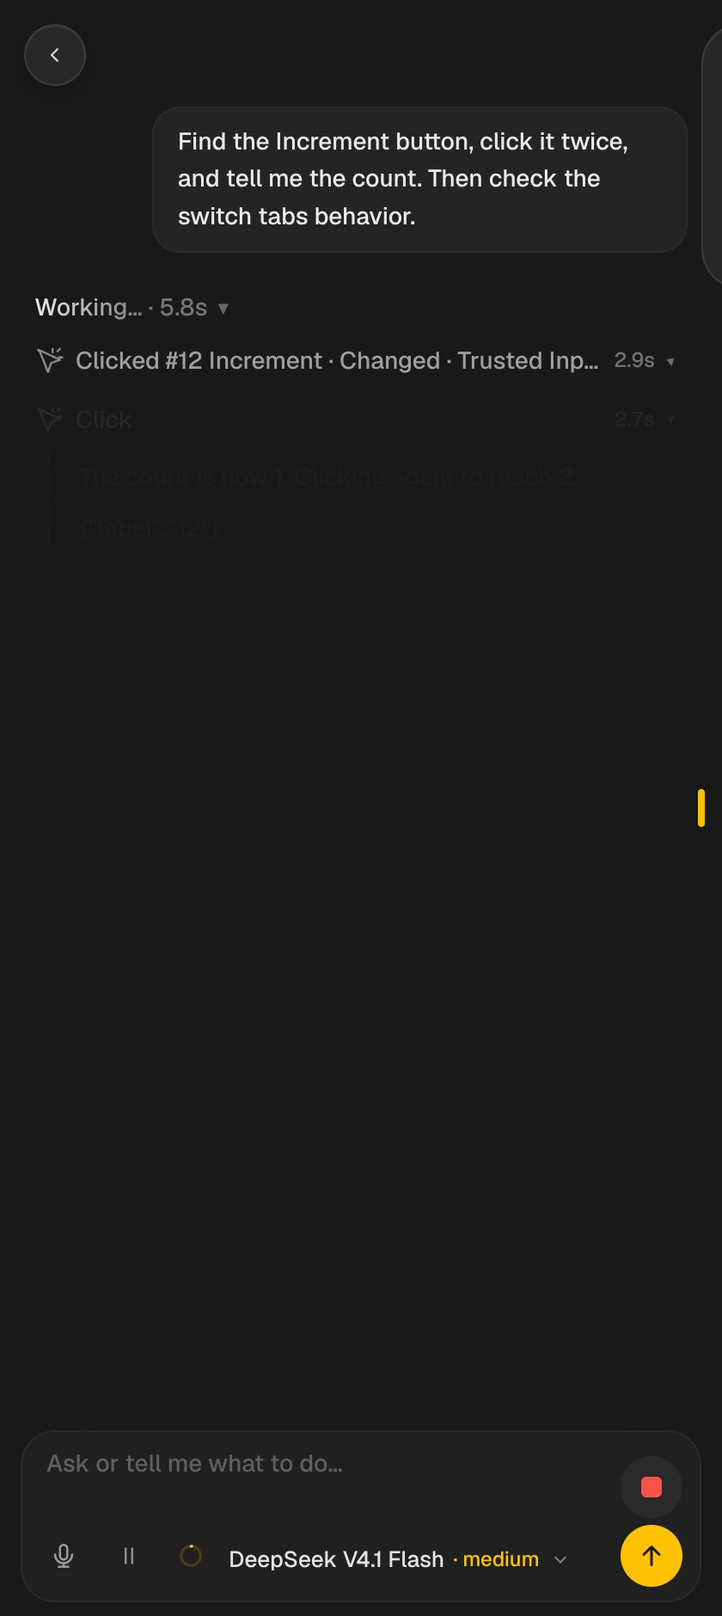
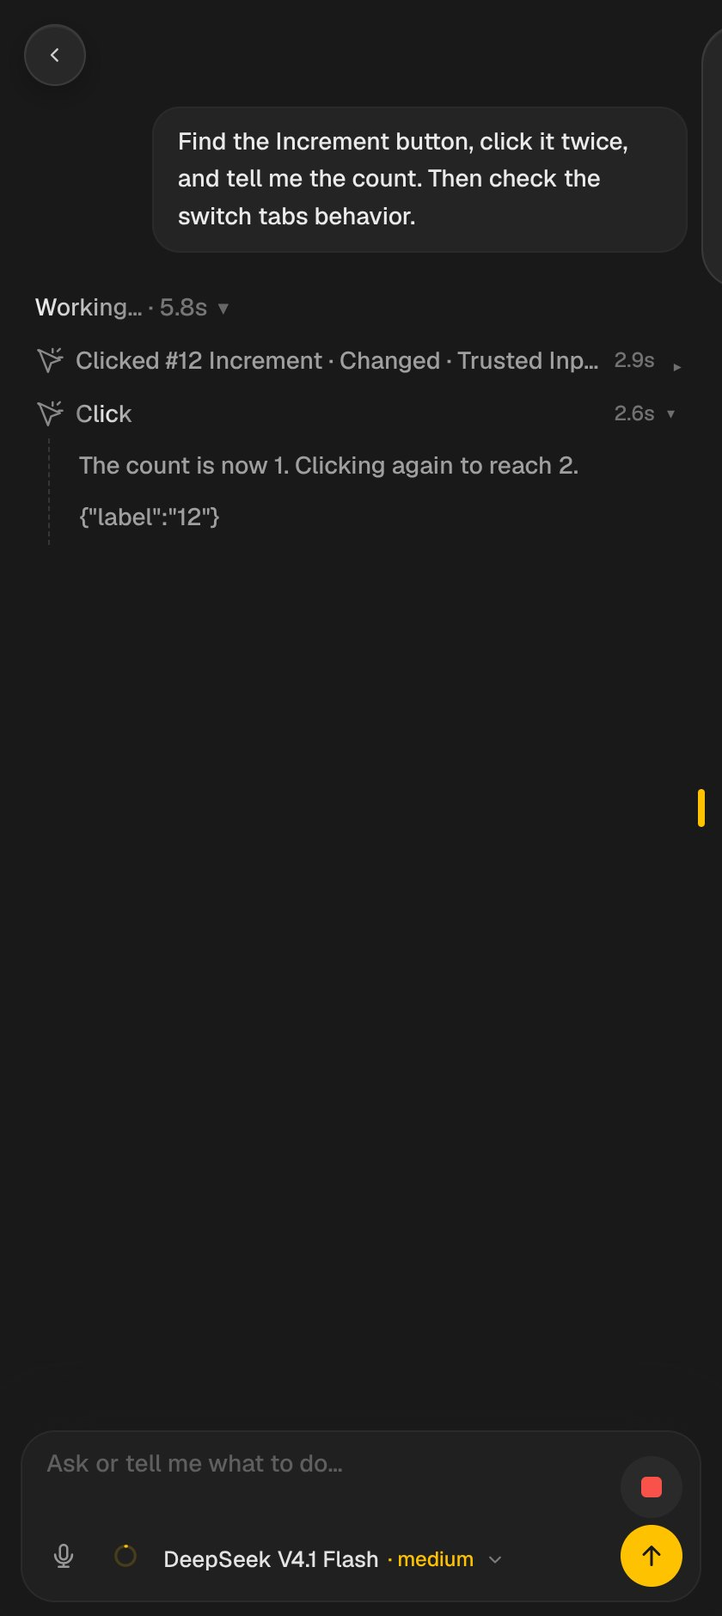
Remove browser access pause control

diff --git a/extension/sidepanel/app.js b/extension/sidepanel/app.js
@@ -186,7 +186,6 @@ const els = {
   slashMenu: $('slash-menu'),
   slashMenuList: $('slash-menu-list'),
   mic: $('mic'),
-  pause: $('pause'),
   dictationIndicator: $('dictation-indicator'),
   imageChips: $('image-chips'),
   messageQueue: $('message-queue'),
@@ -233,6 +232,9 @@ async function loadSettings() {
   } catch {
     settings = { ...DEFAULT_SETTINGS }
   }
+  const clearLegacyPause = settings.paused === true
+  settings.paused = false
+  if (clearLegacyPause) void saveSettings()
 }
 
 async function saveSettings() {
@@ -1189,46 +1191,6 @@ function updateStopButton() {
   els.stop.setAttribute('aria-label', label)
   els.stop.setAttribute('aria-busy', String(stopping))
   renderQueuedMessages()
-}
-
-/** Reflect the Pause/Resume control and its browser-access state. */
-function updatePauseButton() {
-  if (!els.pause) return
-  const paused = settings.paused === true
-  els.pause.setAttribute('aria-pressed', String(paused))
-  els.pause.setAttribute('aria-label', paused ? 'Resume browser access' : 'Pause browser access')
-  els.pause.title = paused
-    ? 'Browser access paused — resume it'
-    : 'Pause browser access without ending the chat'
-  els.pause.classList.toggle('paused', paused)
-  const use = els.pause.querySelector('use')
-  if (use) use.setAttribute('href', paused ? '#icon-play' : '#icon-pause')
-}
-
-/**
- * Toggle browser-access pause. Paused commands are rejected with PAUSED
- * (app.js handleBrowserCommand) without ending the chat turn; the state is
- * persisted with the other panel settings.
- * @param {boolean} value
- * @param {{persist?: boolean, announce?: boolean}} [options]
- */
-function setPaused(value, { persist = true, announce = true } = {}) {
-  const next = value === true
-  settings.paused = next
-  updatePauseButton()
-  if (next) {
-    setActivityPhase('Paused', 'paused')
-    if (announce) toast('Browser access paused. Page commands are rejected until you resume.')
-  } else {
-    setActivityPhase(
-      busy ? 'Working…' : connected ? 'Ready' : 'Companion offline',
-      busy ? 'busy' : connected ? 'online' : 'offline',
-    )
-    if (announce) toast('Browser access resumed')
-  }
-  refreshStatus()
-  logger.log('ui.pause', { paused: next }, 'info')
-  if (persist) void saveSettings()
 }
 
 function setActivity(active) {
@@ -3578,7 +3540,6 @@ els.modelSearch.addEventListener('keydown', event => {
   }
 })
 els.mic.addEventListener('click', toggleDictation)
-els.pause.addEventListener('click', () => setPaused(!settings.paused))
 els.input.addEventListener('paste', event => {
   const files = [...(event.clipboardData?.items ?? [])]
     .filter(item => item.kind === 'file')
@@ -3723,8 +3684,6 @@ async function boot() {
   renderComposerModel()
   renderImageChips()
   updateMicButton()
-  updatePauseButton()
-  if (settings.paused) setActivityPhase('Paused', 'paused')
   logger.log('settings.loaded', {
     hasToken: settings.token.length > 0,
     bridgeUrl: settings.bridgeUrl,

diff --git a/extension/sidepanel/index.html b/extension/sidepanel/index.html
@@ -21,8 +21,6 @@
       <symbol id="icon-refresh" viewBox="0 0 24 24"><path d="M20 6v5h-5M4 18v-5h5" /><path d="M18.5 9A7 7 0 0 0 6 6.5L4 9M5.5 15A7 7 0 0 0 18 17.5l2-2.5" /></symbol>
       <symbol id="icon-chevron" viewBox="0 0 24 24"><path d="m7 10 5 5 5-5" /></symbol>
       <symbol id="icon-mic" viewBox="0 0 24 24"><rect x="9" y="3" width="6" height="12" rx="3" /><path d="M5 11a7 7 0 0 0 14 0M12 18v3M8 21h8" /></symbol>
-      <symbol id="icon-pause" viewBox="0 0 24 24"><path d="M9 5v14M15 5v14" /></symbol>
-      <symbol id="icon-play" viewBox="0 0 24 24"><path d="m8 5 11 7-11 7V5Z" /></symbol>
       <symbol id="icon-arrow-up" viewBox="0 0 24 24"><path d="m6 11 6-6 6 6M12 5v14" /></symbol>
       <symbol id="icon-download" viewBox="0 0 24 24"><path d="M12 3v12m-5-5 5 5 5-5M5 21h14" /></symbol>
       <symbol id="icon-file" viewBox="0 0 24 24"><path d="M14 2H6a2 2 0 0 0-2 2v16a2 2 0 0 0 2 2h12a2 2 0 0 0 2-2V8Z" /><path d="M14 2v6h6" /></symbol>
@@ -98,7 +96,6 @@
           </div>
           <div class="composer-controls">
             <button id="mic" class="mic" type="button" title="Start dictation" aria-label="Start dictation" aria-pressed="false"><svg class="icon"><use href="#icon-mic" /></svg></button>
-            <button id="pause" class="pause-toggle" type="button" title="Pause browser access" aria-label="Pause browser access" aria-pressed="false"><svg class="icon"><use href="#icon-pause" /></svg></button>
             <span class="composer-spacer"></span>
             <span id="composer-model-context" class="composer-model-context" role="img" aria-label="Context usage" hidden>
               <svg class="composer-context-ring" viewBox="0 0 20 20" aria-hidden="true">

diff --git a/extension/sidepanel/style.css b/extension/sidepanel/style.css
@@ -1159,38 +1159,6 @@ input::placeholder {
   color: #4f4f4f;
 }
 
-/* Pause/Resume browser access. Lives beside dictation so the user can stop the
-   agent touching the page without ending the chat turn. */
-.pause-toggle {
-  display: grid;
-  place-items: center;
-  width: 32px;
-  height: 32px;
-  flex: 0 0 auto;
-  margin: 0 0 2px 0;
-  padding: 0;
-  border: 0;
-  border-radius: 50%;
-  background: transparent;
-  color: #999;
-  transition: color 0.15s ease, background 0.15s ease;
-}
-
-.pause-toggle:hover {
-  background: #252525;
-  color: #d0d0d0;
-}
-
-.pause-toggle[aria-pressed="true"] {
-  background: var(--accent-soft);
-  color: var(--accent);
-}
-
-.pause-toggle .icon {
-  width: 15px;
-  height: 15px;
-}
-
 .composer-model {
   display: flex;
   flex: 1 1 auto;

diff --git a/HANDOFF.md b/HANDOFF.md
@@ -6,7 +6,7 @@ Last updated: **2026-11-06**. This is the architecture and current-state handoff
 
 The build exposes **33 model-facing tools**: 25 general browser tools and 8 guarded Docs tools. The latest milestone adds standalone, exclusive `browser_drag` with trusted pointer/HTML5 paths and independently scoped source/destination evidence. Pointer-only drags skip HTML5 interception; actual native sources use `Input.setInterceptDrags` and `Input.dispatchDragEvent`. Source and destination identity/placement are revalidated before press and drop, while image/CSS guards reject stale scales, clipping, ambiguity, unsupported child frames, and Docs. Source movement/value/selection and destination child/text outcomes remain separate from observed page change, outcome, and mutation possibility. A static source with an independently measured clone/drop effect is not a no-op; unrelated changes and drop dispatch are not success. No-op requires all applicable measurements to run unchanged, while detached or missing evidence stays unknown. Exact `browser_type` values are preferred for native range inputs when a spatial gesture is unnecessary. Drag is not a batch operation and has no synthetic fallback. Earlier milestones added strict optional `expect` evidence and typed postconditions to `browser_click`, `browser_click_at`, `browser_type`, and `browser_press_key`, with per-action `text_landed`/`dialog` support in ordinary batches. Results still separate `observed`, `expectation.status`, `outcome.ok`, and `mutationPossible`; failed expectations never trigger automatic repair.
 
-The build also includes composer slash commands plus Pause/Resume, draft-view preservation, overlay focus restoration, and dropped-bridge cleanup. The last recorded implementation verification was **767/767 tests**, prompt composition, and fresh isolated `edge-expect-e2e.mjs`, `edge-click-e2e.mjs`, and `edge-drag-e2e.mjs` runs. The drag fixture used real provider/executor calls to verify pointer before/after reorder, accepted/refused HTML5 drops, static-source clone effects, native/custom sliders, long-press success/early no-op, intentional no-op, detached-rerender unknown, and stale/ambiguous/off-screen/Docs guards. Independent checks inspected DOM order, values, parents, drop receipts, and collateral application state rather than trusting tool status or screenshots; refused and intentional no-op cases preserved every semantic application value. Earlier expectation, click, capture, and file-transfer checks retained their evidence. These are direct executor checks, not real-model acceptance.
+The build also includes composer slash commands, draft-view preservation, overlay focus restoration, and dropped-bridge cleanup. The browser-access Pause/Resume control has been removed, and legacy saved paused state is cleared on startup. The last recorded implementation verification was **767/767 tests**, prompt composition, and fresh isolated `edge-expect-e2e.mjs`, `edge-click-e2e.mjs`, and `edge-drag-e2e.mjs` runs. The drag fixture used real provider/executor calls to verify pointer before/after reorder, accepted/refused HTML5 drops, static-source clone effects, native/custom sliders, long-press success/early no-op, intentional no-op, detached-rerender unknown, and stale/ambiguous/off-screen/Docs guards. Independent checks inspected DOM order, values, parents, drop receipts, and collateral application state rather than trusting tool status or screenshots; refused and intentional no-op cases preserved every semantic application value. Earlier expectation, click, capture, and file-transfer checks retained their evidence. These are direct executor checks, not real-model acceptance.
 
 Viewport screenshots keep working while the user is in another app or browser window. `snapshot` chooses the capture path from `chrome.windows.get(windowId)`: a focused, visible window keeps `tabs.captureVisibleTab`; an unfocused but visible window uses page-level CDP `Page.captureScreenshot` first and falls back once to the visible-tab API; a minimized window uses only the page path because `captureVisibleTab` can stay pending there until the watchdog fires. Captures never focus or restore the window. `scripts/edge-capture-e2e.mjs` is a self-contained isolated-profile fixture that verifies focused, unfocused, and minimized captures, the painted label overlays, unchanged window focus/state, and no capture cooldown; it also asserts the image is viewport × devicePixelRatio on every path and that an image-space click still activates the labelled control while the window is unfocused and minimized. Its minimized probe showed `captureVisibleTab` not settling within 2s while the executor capture succeeded. Role-click resolves its target inside the debugger lease after a bounded viewport-stability wait: Chrome's debugging-infobar resize no longer causes a false `ROLE_CLICK_STALE_TARGET`, while a target that genuinely reflows after hover is still refused with zero presses. Click change detection ignores the injected ripple/overlay nodes, so a no-op click reports no visible change; `edge-click-e2e.mjs` passed 3 consecutive runs after these fixes.
 
@@ -102,7 +102,7 @@ Fixture server:
 python3 -m http.server 17872 --bind 127.0.0.1 --directory e2e/fixtures
 ```
 
-Real-extension scripts include `edge-files-e2e.mjs`, `edge-click-e2e.mjs`, `edge-work-e2e.mjs`, `edge-find-e2e.mjs`, `edge-table-e2e.mjs`, `edge-canvas-e2e.mjs`, `edge-advanced-e2e.mjs`, `edge-dialog-e2e.mjs`, `edge-clipboard-e2e.mjs`, and `edge-docs-table-e2e.mjs`. They require isolated Edge/CDP setup and do not evaluate model decisions. Two harnesses are self-contained (each starts its own isolated Edge profile, and `edge-capture-e2e.mjs` also starts its own fixture page): `edge-capture-e2e.mjs` checks focused/unfocused/minimized viewport captures, and `ui-preview.mjs` captures the mocked-bridge side-panel UI (including the disclaimer, slash palette, Pause/Resume, and the mocked bridge-drop cleanup; it starts an HTTP fixture server only for its `tools` scenario). The file-transfer harness starts its own server and needs a temporary Downloads preference; the Docs table harness additionally requires an authenticated isolated Docs profile. Use `e2e/checklist.md` for real-sidebar acceptance.
+Real-extension scripts include `edge-files-e2e.mjs`, `edge-click-e2e.mjs`, `edge-work-e2e.mjs`, `edge-find-e2e.mjs`, `edge-table-e2e.mjs`, `edge-canvas-e2e.mjs`, `edge-advanced-e2e.mjs`, `edge-dialog-e2e.mjs`, `edge-clipboard-e2e.mjs`, and `edge-docs-table-e2e.mjs`. They require isolated Edge/CDP setup and do not evaluate model decisions. Two harnesses are self-contained (each starts its own isolated Edge profile, and `edge-capture-e2e.mjs` also starts its own fixture page): `edge-capture-e2e.mjs` checks focused/unfocused/minimized viewport captures, and `ui-preview.mjs` captures the mocked-bridge side-panel UI (including the disclaimer, slash palette, pause-control absence, legacy paused-state migration, and the mocked bridge-drop cleanup; it starts an HTTP fixture server only for its `tools` scenario). The file-transfer harness starts its own server and needs a temporary Downloads preference; the Docs table harness additionally requires an authenticated isolated Docs profile. Use `e2e/checklist.md` for real-sidebar acceptance.
 
 Do not run model-spending or destructive checks against the user’s normal profile. Stop only browser/companion processes you started; never use broad executable-path `pkill`.
 
@@ -122,7 +122,7 @@ Do not run model-spending or destructive checks against the user’s normal prof
 | `extension/sidepanel/capture.js`, `clipboard.js`, `system-clipboard.js` | Screenshot scopes and virtual/system clipboard paths |
 | `extension/sidepanel/dialogs.js`, `role-click.js` | Native dialogs and exact page-chrome role paths |
 | `extension/sidepanel/docs-*.js` | Export, structure parsing, formatting, selection, and verification helpers |
-| `extension/sidepanel/app.js` | Activity feed, composer, queue, settings, Stop and Pause/Resume, debug export |
+| `extension/sidepanel/app.js` | Activity feed, composer, queue, settings, Stop, debug export |
 | `config/browser.patch.yml` | DSH profile composition and parallel-call policy |
 | `e2e/` | Fixtures and manual acceptance checklist |
 | `scripts/edge-*.mjs` | Real-extension/model CDP harnesses |

diff --git a/README.md b/README.md
@@ -11,7 +11,7 @@
 - Create and edit Google Docs content and native tables with exact targeting and export verification.
 - Download files and attach Downloads-folder files to page inputs with filesystem readback.
 - Distinguish observed changes, requested postconditions, and final outcomes instead of treating every tool result as success.
-- Keep receiving views while the browser is unfocused or minimised, with slash commands and Pause/Resume in the composer.
+- Keep receiving views while the browser is unfocused or minimised, with slash commands in the composer.
 
 There are **33 model-facing tools**: 25 general browser tools and 8 guarded Docs tools. The detailed reference is below.
 
@@ -145,7 +145,7 @@ Not supported yet include drag batching and child-frame drags, native file picke
 
 ## Side-panel UI
 
-The panel is a single activity feed with streaming reasoning/text/tool events, per-step timing, collapsible finished steps, and a pinned final answer. The composer supports queued messages, Stop, a Pause/Resume toggle that rejects page commands without ending the chat, model and reasoning settings, up to four pasted images, browser speech recognition when available, and slash commands: typing `/` opens an inline palette where `/new` starts a fresh chat (a stoppable running turn stays alive behind the draft view, while an operation that is still starting refuses with a wait message) and `/model` opens the model picker. ArrowUp/ArrowDown choose, Enter or Tab runs, and Escape dismisses; path-like text that merely starts with `/` is sent as ordinary prose. Closing the model picker (Escape, outside click, or choosing a model) returns focus to the composer, and a draft typed or attached while the `/new` view waits behind a running turn survives when that turn ends. After an extension install or reload, a one-time full-screen notice leads with an amber **Don't touch the browser** warning: while the agent runs, clicking, typing, scrolling, or switching tabs can throw off its clicks and targets and break the task. **Got it** or Escape dismisses it; it does not return on ordinary panel opens.
+The panel is a single activity feed with streaming reasoning/text/tool events, per-step timing, collapsible finished steps, and a pinned final answer. The composer supports queued messages, Stop, model and reasoning settings, up to four pasted images, browser speech recognition when available, and slash commands: typing `/` opens an inline palette where `/new` starts a fresh chat (a stoppable running turn stays alive behind the draft view, while an operation that is still starting refuses with a wait message) and `/model` opens the model picker. ArrowUp/ArrowDown choose, Enter or Tab runs, and Escape dismisses; path-like text that merely starts with `/` is sent as ordinary prose. There is no browser-access Pause/Resume control; legacy saved paused state is cleared on startup. Closing the model picker (Escape, outside click, or choosing a model) returns focus to the composer, and a draft typed or attached while the `/new` view waits behind a running turn survives when that turn ends. After an extension install or reload, a one-time full-screen notice leads with an amber **Don't touch the browser** warning: while the agent runs, clicking, typing, scrolling, or switching tabs can throw off its clicks and targets and break the task. **Got it** or Escape dismisses it; it does not return on ordinary panel opens.
 
 The **Debug log** dialog exports local run evidence. See `docs/DEBUG-LOGS.md` before sharing a bundle.
 
@@ -177,7 +177,7 @@ This deletes sessions, attachments, debug logs, tokens, and any remembered key. 
 
 Screenshots, rendered text, labels, prompts, pasted images, and explicit tool results such as personal destinations, clipboard contents, filenames, and file metadata can be sent to the configured model provider. Local file bytes are not sent to the model provider by `browser_upload`; Chrome attaches the file, and the destination site receives it when the page submits. Debug logs and DSH attachments remain local until shared, but contain sensitive page/conversation data and may contain local file paths.
 
-The extension requests broad host access plus side-panel, tabs, scripting, storage, debugger, downloads, web-navigation, clipboard, top-sites, bookmarks, and history permissions. Clipboard, download, upload, and personal-data access occur only through explicit user/model actions, not a background sync. Pause/Resume blocks browser commands without ending the chat; closing the panel disconnects the executor.
+The extension requests broad host access plus side-panel, tabs, scripting, storage, debugger, downloads, web-navigation, clipboard, top-sites, bookmarks, and history permissions. Clipboard, download, upload, and personal-data access occur only through explicit user/model actions, not a background sync. Closing the panel disconnects the executor.
 
 Read `PRIVACY.md` for storage paths, Downloads confinement, redaction limits, clipboard behavior, and controls.
 
@@ -197,7 +197,7 @@ Useful harnesses:
 - `scripts/edge-drag-e2e.mjs` — self-contained isolated provider/executor drag fixture with independent order/value/drop-receipt, clone, no-op, rerender, stale-view, and collateral-state checks.
 - `scripts/edge-files-e2e.mjs` — self-hosted file-transfer fixture with independent source/download and multipart-received byte checks; requires an isolated Edge/CDP profile with a temporary Downloads preference.
 - `scripts/edge-capture-e2e.mjs` — self-hosted isolated profile that verifies focused, unfocused, and minimized viewport captures at viewport × devicePixelRatio, with labelled-pixel checks, image-space clicks while unfocused/minimized, and unchanged window focus/state.
-- `scripts/ui-preview.mjs` — mocked-bridge side-panel screenshots and UI assertions (disclaimer, slash palette, Pause/Resume, draft-view focus/attachments, disconnect cleanup) without a companion or model spend.
+- `scripts/ui-preview.mjs` — mocked-bridge side-panel screenshots and UI assertions (disclaimer, slash palette, pause-control absence and legacy-state migration, draft-view focus/attachments, disconnect cleanup) without a companion or model spend.
 - `scripts/edge-expect-e2e.mjs` — isolated direct/batch expectation fixture with independent text, dialog, pixel, semantic, and mutation-state checks.
 - `scripts/edge-click-e2e.mjs`, `edge-work-e2e.mjs`, `edge-canvas-e2e.mjs`, `edge-advanced-e2e.mjs` — direct real-extension fixture checks.
 - `scripts/edge-find-e2e.mjs`, `edge-table-e2e.mjs`, `edge-dialog-e2e.mjs`, `edge-clipboard-e2e.mjs` — focused executor checks.
@@ -214,7 +214,7 @@ Most fixture scripts need the static server and isolated Edge/CDP setup describe
 | Invalid pairing token | Copy the current token into Settings; do not share it |
 | No model/key configured | Enter the key, refresh models, select an image/tool-capable model, and save |
 | Model list or key rejected | Check base URL, network access, account access, and key validity |
-| Browser bridge disconnected | Reopen the side panel (and press Resume if it was paused); it is the executor |
+| Browser bridge disconnected | Reopen the side panel; it is the executor |
 | Protected-page error | Switch to a normal HTTP(S) tab |
 | Trusted input unavailable | Close DevTools on the tab and check debugger permission |
 | Changes do not apply | Reload/reopen the extension; restart the companion for provider/config changes |

diff --git a/AGENTS.md b/AGENTS.md
@@ -57,7 +57,7 @@ Duplicate text requires an explicit ordinal; an ambiguous request must not silen
 - Unified `browser_docs_replace` and `browser_docs_format` route to internal executor actions. Legacy replacement/format tool names remain internal only.
 - Mutations are exclusive in model order. Only `browser_tabs`, `browser_places`, `browser_read_text`, `browser_docs_read`, and `browser_downloads` are parallel-safe.
 - Viewport views keep working when the browser window is unfocused or minimized: the executor keeps `tabs.captureVisibleTab` for a focused visible window and uses a page-level CDP capture otherwise, without ever focusing or restoring the window. A capture timeout opens only the visible-tab cooldown and is not retried by stealing focus; captured image pixels stay viewport × devicePixelRatio on every capture path, and image-space clicks still activate the labelled control while the window is unfocused or minimized. Role-click resolves its target inside the same debugger lease as the press and waits (bounded) for viewport stability after a fresh debugger attach, so Chrome's debugging-infobar resize no longer produces a false `ROLE_CLICK_STALE_TARGET`; a target that genuinely reflows after hover is still refused with zero presses. Click change detection ignores the injected ripple/overlay nodes, so a no-op click reliably reports no visible change. The one-time disclaimer leads with a “Don't touch the browser while the agent is running” warning.
-- The composer supports slash commands and Pause/Resume. A leading `/` token opens an inline palette: `/new` starts a fresh chat (a stoppable running turn stays alive behind the draft view; while an operation is still starting, `/new` refuses with a wait message) and `/model` opens the composer model picker. ArrowUp/ArrowDown select with wrapping, Enter or Tab runs the highlighted row, Escape dismisses without rewriting the draft, and a click runs that row. The Send button executes only an exact `/new` or `/model`; other slash-leading text is ordinary prose. `extension/sidepanel/slash.js` holds the pure trigger/filter rules. The Pause/Resume toggle rejects page commands with `PAUSED` without ending the chat, persists with the other panel settings, and updates the activity phase/status. Composer text and pasted images prepared in the `/new` draft view survive its retirement; closing the model picker (Escape, outside click, or row selection) and the settings/history/log/image overlays returns focus to the composer; a dropped bridge finishes the live turn, stops its clock, and clears a stale draft view instead of stranding "Wait for the running session".
+- The composer supports slash commands. A leading `/` token opens an inline palette: `/new` starts a fresh chat (a stoppable running turn stays alive behind the draft view; while an operation is still starting, `/new` refuses with a wait message) and `/model` opens the composer model picker. ArrowUp/ArrowDown select with wrapping, Enter or Tab runs the highlighted row, Escape dismisses without rewriting the draft, and a click runs that row. The Send button executes only an exact `/new` or `/model`; other slash-leading text is ordinary prose. `extension/sidepanel/slash.js` holds the pure trigger/filter rules. There is no user-facing browser-access pause control; legacy saved paused state is cleared on startup. Composer text and pasted images prepared in the `/new` draft view survive its retirement; closing the model picker (Escape, outside click, or row selection) and the settings/history/log/image overlays returns focus to the composer; a dropped bridge finishes the live turn, stops its clock, and clears a stale draft view instead of stranding "Wait for the running session".
 - `browser_press_key` and batch key normalization reject ctrl/cmd+W in code (both standalone and composite chords) with a message pointing at `browser_tabs`; guidance alone is not the safeguard. `browser_scroll` is guidance-covered alongside the other general tools.
 - **Medium is the default/recommended reasoning effort** for new companion and side-panel configurations. Saved choices remain honored; selecting Auto still requests low from the first model step.
 - Last recorded verification: **767/767 unit/integration tests**, prompt composition (**17,995 total / 17,001 guidance chars**), and fresh isolated `edge-expect-e2e.mjs`, `edge-click-e2e.mjs`, and `edge-drag-e2e.mjs` runs. The drag fixture used the real provider/executor bridge and independently verified pointer before/after reorder, accepted/refused HTML5 drops, static-source clone effects, native/custom sliders, long-press success/early no-op, intentional no-op, detached-rerender unknown, and stale/ambiguous/off-screen/Docs guards. It checked actual DOM order, values, parentage, drop receipts, and collateral application state; refused and intentional no-op cases preserved every semantic application value. Expectation and click fixtures retained full regression passes. These remain direct executor checks, not real-model acceptance.

diff --git a/HANDOFF-QUICK.md b/HANDOFF-QUICK.md
@@ -38,7 +38,7 @@ These are recorded results, not a substitute for rerunning checks after new chan
 
 - Strict optional `expect` evidence is wired through provider and executor for `browser_click`, `browser_click_at`, `browser_type`, and `browser_press_key`, with per-action `text_landed`/`dialog` support in ordinary batches. All five reviewed keys and public operation schemas share the same capability definitions, with byte-identical provider/executor mirrors and automated parity plus Ajv tests for top-level and nested `args.expect`. Acceptance scripts mark debugger startup as attempted before awaiting it, so `finally` always attempts cleanup after partial startup. Pending native dialogs never swallow `ActionExpectError`; pending attempted/ok/mutationPossible remain null. Field and pixel scopes require document identity; URL-sensitive batch expectations after a potentially document-changing step fail before any side effect. One-sided semantic scopes mismatch in both directions. Results distinguish `observed`, `expectation.status`, `outcome.ok`, and `mutationPossible`, preserving explicit nulls. Text/export checks require same-scope absent-to-present evidence, final dialog/toolbar checks do not claim causation, pixels are diagnostic-only, and failed expectations never trigger automatic repair. The hardened `edge-expect-e2e.mjs` and `edge-click-e2e.mjs` fixtures pass on fresh isolated profiles with independent page-state and dispatch assertions. Direct Docs export and six toolbar attributes are supported only when explicitly requested; color/highlight and batch export/toolbar/pixel checks remain rejected. Authenticated Docs expectation acceptance and real-sidebar/model expectation selection remain unrun.
 
-- The side-panel UI patch closes the reviewed gaps. A **Pause/Resume** toggle in the composer rejects page commands (`PAUSED`) without ending the chat, persists with the other settings, and updates the activity phase/status. Closing the model picker (Escape, outside click, or choosing a model) returns focus to the composer; settings/history/debug-log/image overlays do the same. Attachments and text prepared while the `/new` draft view waits behind a running turn survive when the turn ends. A dropped bridge now finishes the live turn, stops its clock, and clears a stale draft view, so a later send cannot claim "Wait for the running session". `scripts/ui-preview.mjs --scenario slash` asserts all four behaviours (Pause persistence/`PAUSED` gating, focus return, draft attachment survival, and mocked bridge-drop cleanup) and `--scenario disclaimer` covers the one-time notice.
+- The side-panel UI patch closes the reviewed gaps. The browser-access Pause/Resume control is removed, and legacy saved paused state is cleared on startup. Closing the model picker (Escape, outside click, or choosing a model) returns focus to the composer; settings/history/debug-log/image overlays do the same. Attachments and text prepared while the `/new` draft view waits behind a running turn survive when the turn ends. A dropped bridge now finishes the live turn, stops its clock, and clears a stale draft view, so a later send cannot claim "Wait for the running session". `scripts/ui-preview.mjs --scenario slash` asserts pause-control absence, focus return, draft attachment survival, and mocked bridge-drop cleanup; `--scenario disclaimer` covers the one-time notice and legacy paused-state migration.
 
 - The composer has slash commands. A single leading slash token (`/`, `/n`, `/new`, `/MODEL`) opens an inline palette listing `/new` (fresh chat; a stoppable running turn stays alive behind the draft view, while an operation that is still starting refuses with a wait message) and `/model` (opens the existing composer model picker). ArrowUp/ArrowDown move the selection with wrapping, Enter or Tab runs the highlighted row, Escape dismisses without rewriting the draft, and a click runs that row. The Send button executes only an exact `/new` or `/model`; `/usr/local/bin`, `/new chat`, and trailing-space variants are sent as ordinary prose. `extension/sidepanel/slash.js` holds the trigger/filter rules and `extension/test/slash.test.mjs` covers them. `scripts/ui-preview.mjs --scenario slash` asserts the real accessibility tree (combobox role + `expanded` through `Accessibility.getPartialAXTree`), `aria-activedescendant` cleanup, arrow/Tab/Enter/Escape wrapping, Shift+Enter newline, outside-click dismissal, Send-button agreement, busy `/model` refusal, busy-state `/new` keeping the session alive, prose fallback, and 280 px fit; its row-click and Enter steps use trusted CDP key/mouse input, so the `preventDefault` focus/newline guards are regression-covered (mutation-checked). New UI frame: `docs/ui/sidebar-slash-commands.jpeg`.
 

diff --git a/docs/ui/README.md b/docs/ui/README.md
@@ -36,12 +36,10 @@ executes on send — other slash-leading text such as `/usr/local/bin`, `/new ch
 or a command with trailing whitespace is sent to the model as ordinary prose.
 The palette is keyboard-navigable and keeps focus in the textarea.
 
-The composer also has a **Pause/Resume** control next to dictation. Paused
-browser commands are rejected with `PAUSED` without ending the chat turn; the
-state persists with the other panel settings and is reflected in the activity
-header and status. Closing the model picker with Escape, an outside click, or by
-choosing a model returns focus to the composer rather than dropping it to the
-page body.
+The browser-access Pause/Resume control has been removed. Legacy saved paused
+state is cleared on startup. Closing the model picker with Escape, an outside
+click, or by choosing a model returns focus to the composer rather than dropping
+it to the page body.
 
 | Frame | State |
 |---|---|
@@ -70,8 +68,8 @@ SHOT_FORMAT=jpeg node scripts/ui-preview.mjs --scenario slash --out /tmp/ui
 The `disclaimer` scenario also asserts that the hands-off warning carries the
 hands-off wording, comes first in the DOM and on screen, and visually dominates
 the supporting copy (larger, heavier, warmer type on a bordered fill), plus
-full-panel coverage, flag consumption, Escape dismissal, and no repeat after a
-panel reopen.
+full-panel coverage, flag consumption, Escape dismissal, legacy paused-state
+migration, and no repeat after a panel reopen.
 
 The `slash` scenario asserts the palette trigger rules, filtering, ARIA
 (`aria-expanded`, `aria-activedescendant`, `role=option`/`aria-selected`, and the
@@ -83,10 +81,9 @@ prose fallback, palette fit at the 280 px minimum panel width, and that `/new`
 during a turn keeps the session alive in the draft view instead of retiring it
 early. It also asserts that Escape, outside clicks, and row selection return
 focus to the composer; that images pasted while the `/new` draft view waits
-survive the draft retirement; that Pause persists its setting, updates the
-status/phase, and rejects a `browser.command` with `PAUSED` until resumed; and
-that a dropped mock bridge finishes the live turn, clears the draft view, and
-reconnects without a stranded clock or a false "Wait for the running session"
+survive the draft retirement; that the browser-access pause control is absent;
+and that a dropped mock bridge finishes the live turn, clears the draft view,
+and reconnects without a stranded clock or a false "Wait for the running session"
 state. Several steps use trusted CDP key and mouse events (not synthetic DOM
 dispatch), so the `preventDefault` newline/focus guards are genuinely covered,
 and `Accessibility.getPartialAXTree` confirms the textarea exposes the combobox

diff --git a/e2e/checklist.md b/e2e/checklist.md
@@ -42,7 +42,7 @@ The cheap gate is `node scripts/ui-preview.mjs --scenario slash` (mocked bridge,
 - Type `/usr/local/bin`, `/new chat`, or `/new ` (trailing space) and press Enter: the palette stays closed and the text is sent to the model as an ordinary prompt.
 - While the `/new` draft view waits on a running turn, type a draft and paste an image. When the turn ends, the draft view retires but the composer text and image must remain; nothing may be silently cleared.
 - The palette is not model acceptance; inspect the resulting chat state independently (debug-log frames, History, composer label, draft view).
-- Pause and request scrolling: click the composer **Pause/Resume** toggle; the status/activity phase must show Paused, the page must not move, and each page command must return `PAUSED` instead of executing. Press Resume and retry; the page must then scroll. Close the panel or stop the companion and confirm a clear disconnected/offline state without a stranded "Working…" clock or a stuck draft view.
+- Request scrolling, then close the panel or stop the companion and confirm a clear disconnected/offline state without a stranded "Working…" clock or a stuck draft view. The composer must not expose a browser-access Pause/Resume control; any legacy saved paused state must be cleared on startup.
 
 ### Observation and basic interaction
 

diff --git a/PRIVACY.md b/PRIVACY.md
@@ -87,7 +87,6 @@ The side-panel export dialog can omit screenshots and the raw DSH session. Bundl
 
 ## Controls
 
-- **Pause/Resume** (composer toggle, persisted with the other settings) rejects browser commands with `PAUSED` without ending the chat.
 - Disable **Attach a fresh view to every message** to turn off auto-view; explicit screenshot tools remain available.
 - Closing the side panel disconnects browser execution.
 - Uninstalling the extension clears its extension storage.
